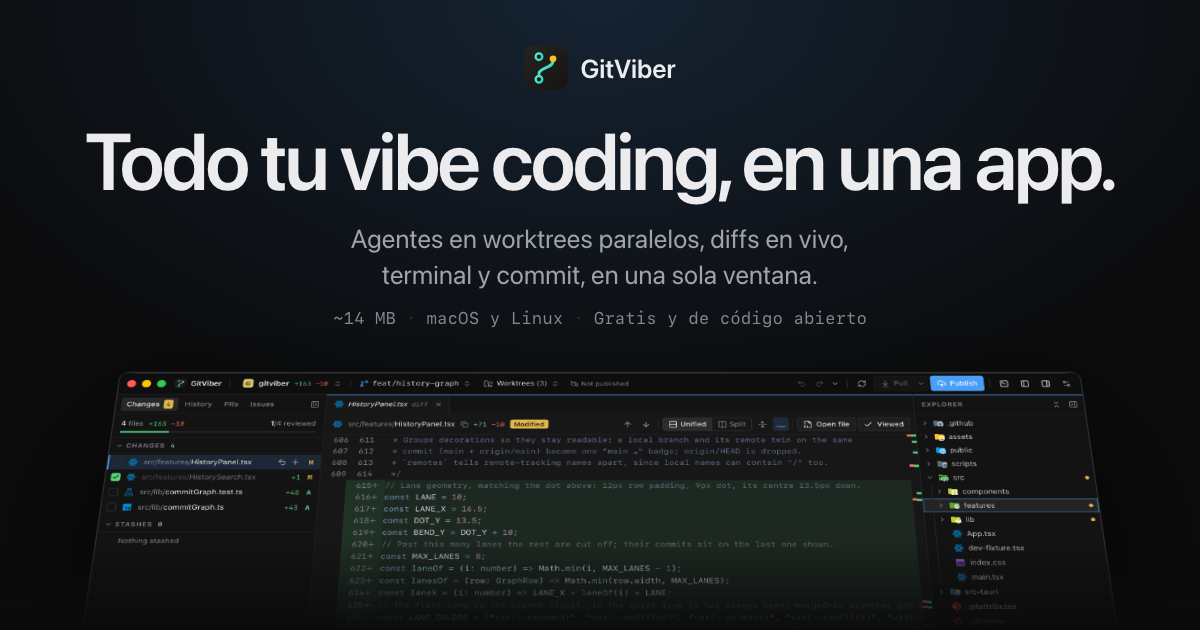
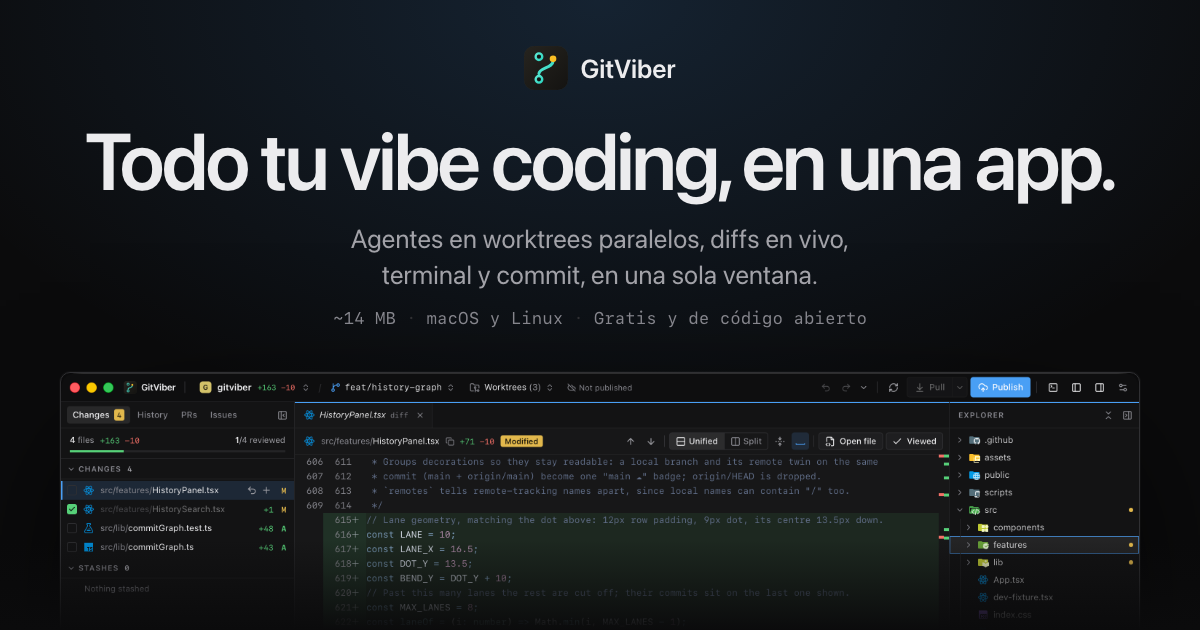
fix(site): lay the preview cards' window flat
Chrome resamples a 3D-transformed image coarsely, so the tilted app screenshot stayed soft
even at 2x. Flat and a little larger, the UI in the link previews and the repo's social
preview is sharp.

Changed region(s): [[0.0308, 0.573, 0.9558, 0.9651], [0.8942, 0.8444, 0.9558, 0.9048], [0.6475, 0.8143, 0.74, 0.8444]]

diff --git a/site/scripts/og/card.html b/site/scripts/og/card.html
@@ -132,13 +132,11 @@
     margin-top: 16px;
     font-size: 17px;
   }
+  /* Flat: Chrome resamples a 3D-transformed image coarsely, which left the app's UI soft. */
   .hero .stage {
     left: 50%;
-    width: 1000px;
+    width: 1080px;
     translate: -50% 0;
-  }
-  .hero .window {
-    transform: rotateX(24deg) scale(0.96);
   }
   .hero .fade {
     height: 90px;
